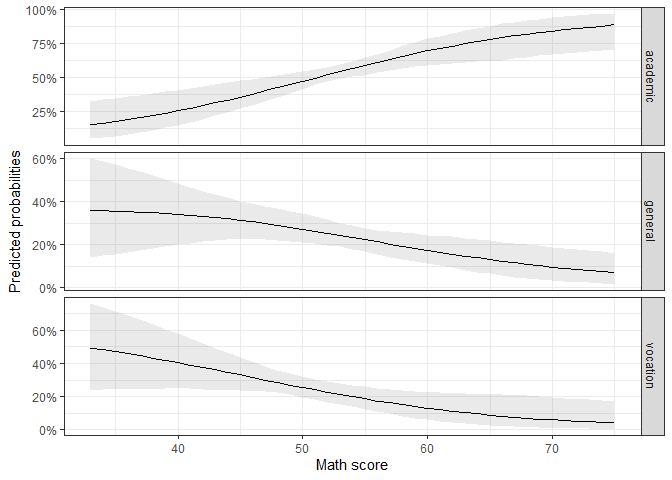
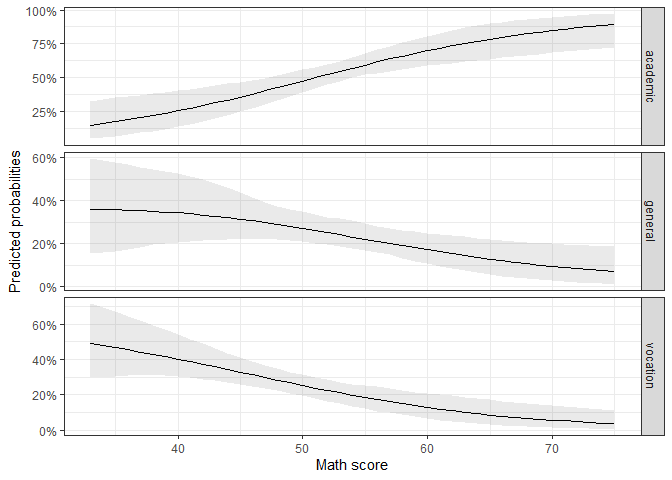
...and a license badge

diff --git a/README.md b/README.md
@@ -7,6 +7,8 @@
 
 [![Travis build
 status](https://travis-ci.org/ManuelNeumann/MNLpred.svg?branch=master)](https://travis-ci.org/ManuelNeumann/MNLpred)
+[![License: GPL
+v3](https://img.shields.io/badge/License-GPLv3-blue.svg)](https://www.gnu.org/licenses/gpl-3.0)
 [![CRAN\_Status\_Badge](http://www.r-pkg.org/badges/version/MNLpred)](https://cran.r-project.org/package=MNLpred)
 [![downloads](http://cranlogs.r-pkg.org/badges/MNLpred)](http://cran.rstudio.com/web/packages/MNLpred/index.html)
 <!-- badges: end -->
@@ -241,12 +243,12 @@ pred1$plotdata %>% head()
 #> # A tibble: 6 x 5
 #>    math prog2     mean  lower upper
 #>   <dbl> <fct>    <dbl>  <dbl> <dbl>
-#> 1    33 academic 0.149 0.0463 0.325
-#> 2    34 academic 0.161 0.0554 0.335
-#> 3    35 academic 0.174 0.0661 0.346
-#> 4    36 academic 0.188 0.0784 0.357
-#> 5    37 academic 0.203 0.0925 0.367
-#> 6    38 academic 0.219 0.109  0.379
+#> 1    33 academic 0.150 0.0501 0.329
+#> 2    34 academic 0.163 0.0588 0.341
+#> 3    35 academic 0.176 0.0688 0.353
+#> 4    36 academic 0.190 0.0804 0.363
+#> 5    37 academic 0.205 0.0936 0.373
+#> 6    38 academic 0.221 0.108  0.383
 ```
 
 As we can see, it includes the range of the x variable, a mean, a lower,
@@ -328,12 +330,12 @@ fdif2$plotdata_fd %>% head()
 #> # A tibble: 6 x 5
 #>    math prog2       mean  lower  upper
 #>   <dbl> <fct>      <dbl>  <dbl>  <dbl>
-#> 1    33 academic -0.0259 -0.128 0.0482
-#> 2    34 academic -0.0276 -0.133 0.0505
-#> 3    35 academic -0.0293 -0.138 0.0529
-#> 4    36 academic -0.0311 -0.143 0.0555
-#> 5    37 academic -0.0329 -0.147 0.0581
-#> 6    38 academic -0.0347 -0.152 0.0608
+#> 1    33 academic -0.0287 -0.124 0.0501
+#> 2    34 academic -0.0308 -0.127 0.0540
+#> 3    35 academic -0.0330 -0.132 0.0568
+#> 4    36 academic -0.0352 -0.137 0.0595
+#> 5    37 academic -0.0375 -0.142 0.0622
+#> 6    38 academic -0.0399 -0.148 0.0648
 ```
 
 Since the function calls the `mnl_pred_ova()` function internally, it
@@ -402,9 +404,8 @@ My code is inspired by the method courses in the [Political Science
 master’s program at the University of
 Mannheim](https://www.sowi.uni-mannheim.de/en/academics/prospective-students/ma-in-political-science/)(cool
 place, check it out\!). The skeleton of the code is based on a tutorial
-taught by [Marcel Neunhoeffer](https://www.marcel-neunhoeffer.com/) and
-[Sebastian Sternberg](https://sebastiansternberg.github.io/) (lecture:
-“Advanced Quantitative Methods” by [Thomas
+taught by [Marcel Neunhoeffer](https://www.marcel-neunhoeffer.com/)
+(lecture: “Advanced Quantitative Methods” by [Thomas
 Gschwend](http://methods.sowi.uni-mannheim.de/thomas_gschwend/)).
 
 ## References
